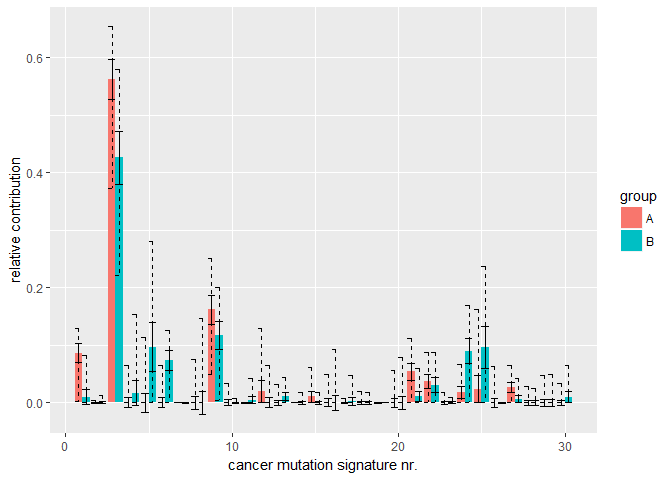
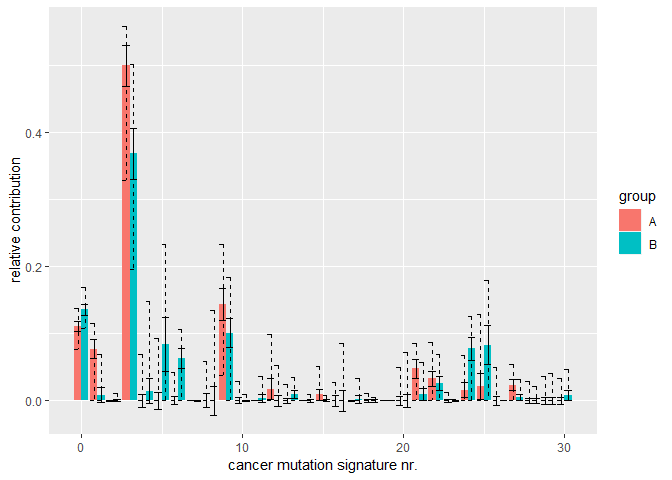
finished re-implementing functions

diff --git a/README.md b/README.md
@@ -12,12 +12,12 @@ We will fit COSMIC signatures to test data.
 ``` r
 library(MutSigs)
 library(tidyverse)
-#> -- Attaching packages -------------------------------------------------------------------------------------------------------------------- tidyverse 1.2.1 --
-#> v ggplot2 2.2.1     v purrr   0.2.4
-#> v tibble  1.4.2     v dplyr   0.7.4
-#> v tidyr   0.8.0     v stringr 1.3.0
+#> -- Attaching packages ---------------------------------------------------------------------------------------------------------------- tidyverse 1.2.1 --
+#> v ggplot2 3.1.0     v purrr   0.2.5
+#> v tibble  1.4.2     v dplyr   0.7.8
+#> v tidyr   0.8.2     v stringr 1.3.1
 #> v readr   1.1.1     v forcats 0.3.0
-#> -- Conflicts ----------------------------------------------------------------------------------------------------------------------- tidyverse_conflicts() --
+#> -- Conflicts ------------------------------------------------------------------------------------------------------------------- tidyverse_conflicts() --
 #> x dplyr::filter() masks stats::filter()
 #> x dplyr::lag()    masks stats::lag()
 ```
@@ -58,9 +58,6 @@ result <- assessSignatures(testData,
 #> The following objects are masked from 'package:purrr':
 #> 
 #>     accumulate, when
-#> Loading required package: abind
-#> Warning: Column `group` joining factor and character vector, coercing into
-#> character vector
 ```
 
 Finally, visualize the result:
@@ -69,7 +66,7 @@ Finally, visualize the result:
 
 result %>%
   separate(signature, c("sign", "signatureNr"), sep=10) %>%
-  mutate(signatureNr = as.numeric(signatureNr)) %>%
+  mutate(signatureNr = if_else(signatureNr=="", 0, as.numeric(signatureNr))) %>%
   ggplot(aes(x=signatureNr, 
              y=relC, 
              fill=group,
